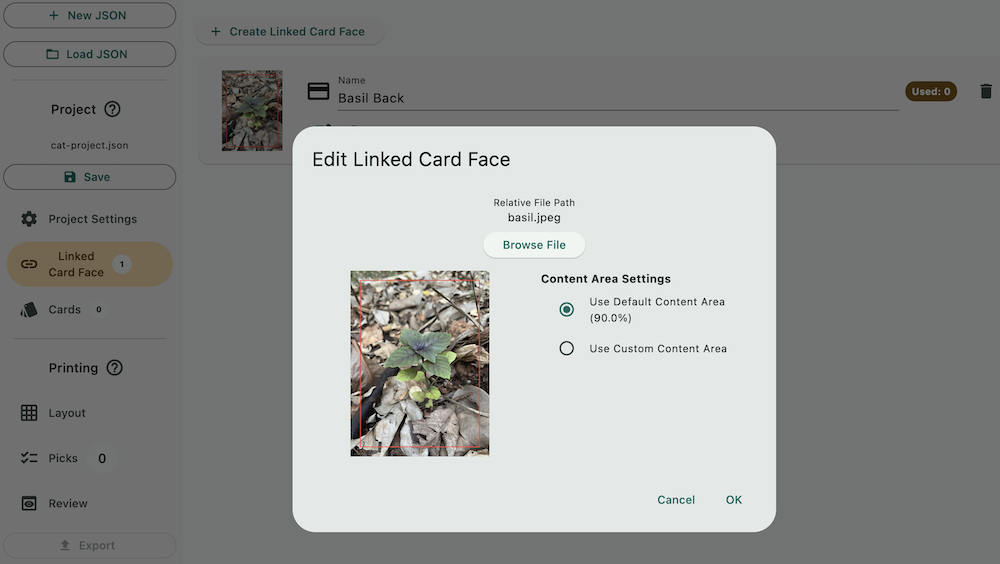
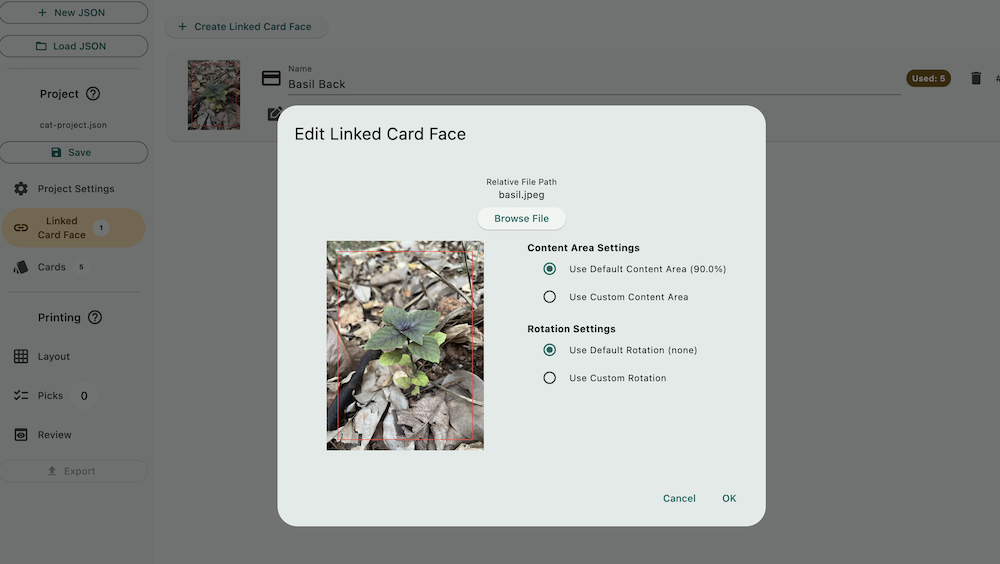
nicer rotation display name

diff --git a/flutter/lib/page/card/edit_card_face_dialog.dart b/flutter/lib/page/card/edit_card_face_dialog.dart
@@ -53,6 +53,18 @@ class EditCardFaceDialogState extends State<EditCardFaceDialog>
   bool useDefaultRotation = true;
   Rotation customRotation = Rotation.none;
 
+  // Helper method to get nice display names for rotation values
+  String getRotationDisplayName(Rotation rotation) {
+    switch (rotation) {
+      case Rotation.none:
+        return "None";
+      case Rotation.clockwise90:
+        return "Clockwise 90°";
+      case Rotation.counterClockwise90:
+        return "Counter-clockwise 90°";
+    }
+  }
+
   @override
   void initState() {
     super.initState();
@@ -250,7 +262,7 @@ class EditCardFaceDialogState extends State<EditCardFaceDialog>
                       RadioListTile<bool>(
                         dense: true,
                         title: Text(
-                            "Use Default Rotation (${widget.projectSettings.defaultRotation.name})"),
+                            "Use Default Rotation (${getRotationDisplayName(widget.projectSettings.defaultRotation)})"),
                         value: true,
                         groupValue: useDefaultRotation,
                         onChanged: (value) {
@@ -276,18 +288,11 @@ class EditCardFaceDialogState extends State<EditCardFaceDialog>
                           child: DropdownButton<Rotation>(
                             value: customRotation,
                             items: [
-                              DropdownMenuItem(
-                                value: Rotation.none,
-                                child: Text("None"),
-                              ),
-                              DropdownMenuItem(
-                                value: Rotation.clockwise90,
-                                child: Text("Clockwise 90°"),
-                              ),
-                              DropdownMenuItem(
-                                value: Rotation.counterClockwise90,
-                                child: Text("Counter-clockwise 90°"),
-                              ),
+                              for (var rotation in Rotation.values)
+                                DropdownMenuItem(
+                                  value: rotation,
+                                  child: Text(getRotationDisplayName(rotation)),
+                                ),
                             ],
                             onChanged: (value) {
                               if (value != null) {

diff --git a/documentation/create/create.md b/documentation/create/create.md
@@ -58,6 +58,10 @@ The Back Face is then set to **link** to the Linked Card Face we created earlier
 
 ### Rotation
 
+Graphics are expected to be matching in its shape to Card Size you have set in the project settings, as the content area percentage algorithm works by scaling Card Size-shaped box until it touches the edge as 100%.
+
+However, you might have an input graphics rotated the other way in a project with both vertical and horizontal cards. If you left them as-is, this is the result of applying the content area.
+
 ### Create multiple cards by importing
 
 In a sizable project you will want to use the "Import From Folder" feature to create many cards at once, potentially also assigning their back face strategically.
